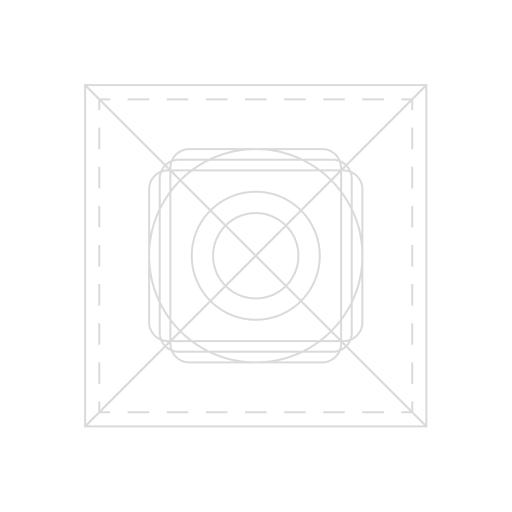
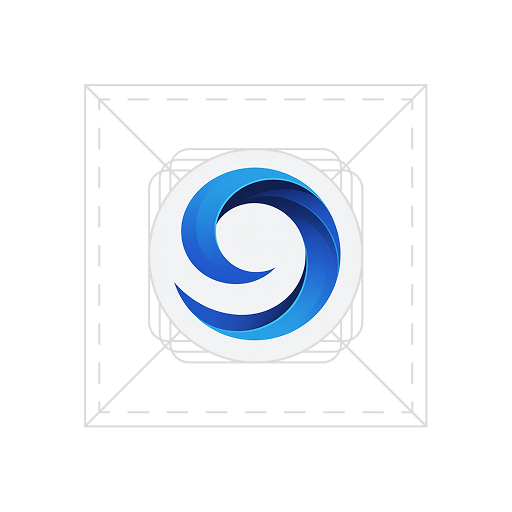
splash screen change

Changed region(s): [[0.3438, 0.3125, 0.6875, 0.6875]]

diff --git a/Frontend/app/index.tsx b/Frontend/app/index.tsx
@@ -1,0 +1,12 @@
+import React from 'react';
+import { View, Text } from 'react-native';
+
+const index = () => {
+  return (
+    <View>
+      <Text></Text>
+    </View>
+  );
+}
+
+export default index;
